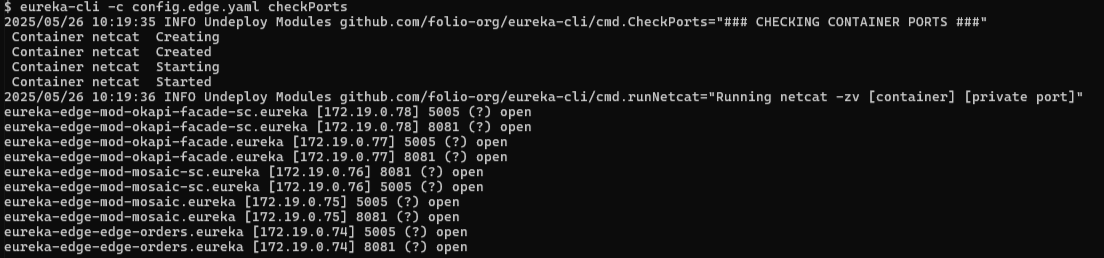
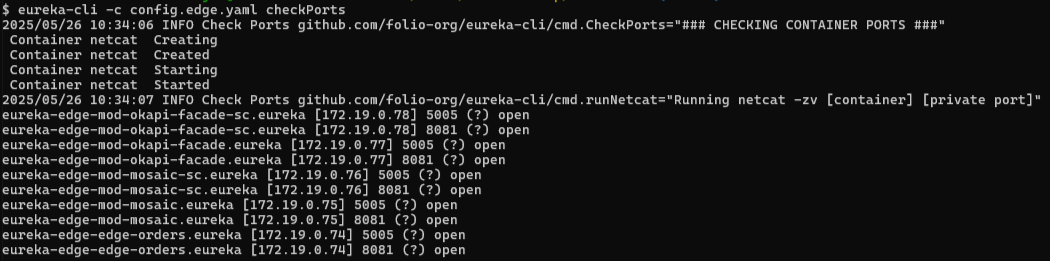
Fix checkPorts commandName

Changed region(s): [[0.0, 0.0, 1.0, 0.9922]]

diff --git a/eureka-cli/cmd/checkPorts.go b/eureka-cli/cmd/checkPorts.go
@@ -29,7 +29,7 @@ import (
 	"github.com/spf13/viper"
 )
 
-const checkPortsCommand = "Undeploy Modules"
+const checkPortsCommand = "Check Ports"
 
 // checkPortsCmd represents the checkPorts command
 var checkPortsCmd = &cobra.Command{
@@ -51,7 +51,7 @@ func CheckPorts() {
 
 func deployNetcatContainer() {
 	preparedCommand := exec.Command("docker", "compose", "--progress", "plain", "--ansi", "never", "--project-name", "eureka", "up", "--detach", "netcat")
-	internal.RunCommandFromDir(deploySystemCommand, preparedCommand, internal.DockerComposeWorkDir)
+	internal.RunCommandFromDir(checkPortsCommand, preparedCommand, internal.DockerComposeWorkDir)
 }
 
 func getDeployedModules() []types.Container {
@@ -71,7 +71,7 @@ func runNetcat(modules []types.Container) {
 
 		for _, portPair := range module.Ports {
 			modulePrivatePort := strconv.Itoa(int(portPair.PrivatePort))
-			internal.RunCommandIgnoreError(listSystemCommand, exec.Command("docker", "exec", "-i", "netcat", "nc", "-zv", moduleName, modulePrivatePort))
+			internal.RunCommandIgnoreError(checkPortsCommand, exec.Command("docker", "exec", "-i", "netcat", "nc", "-zv", moduleName, modulePrivatePort))
 		}
 	}
 }
